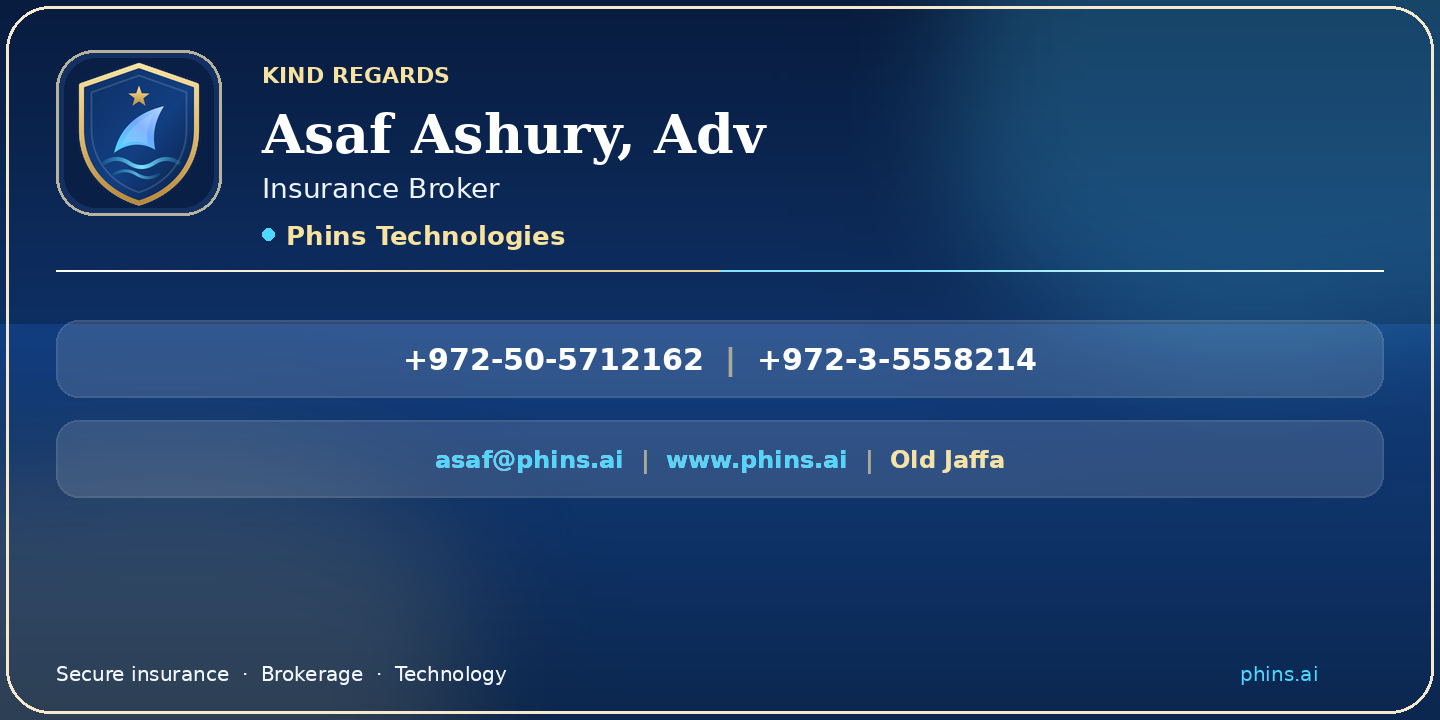
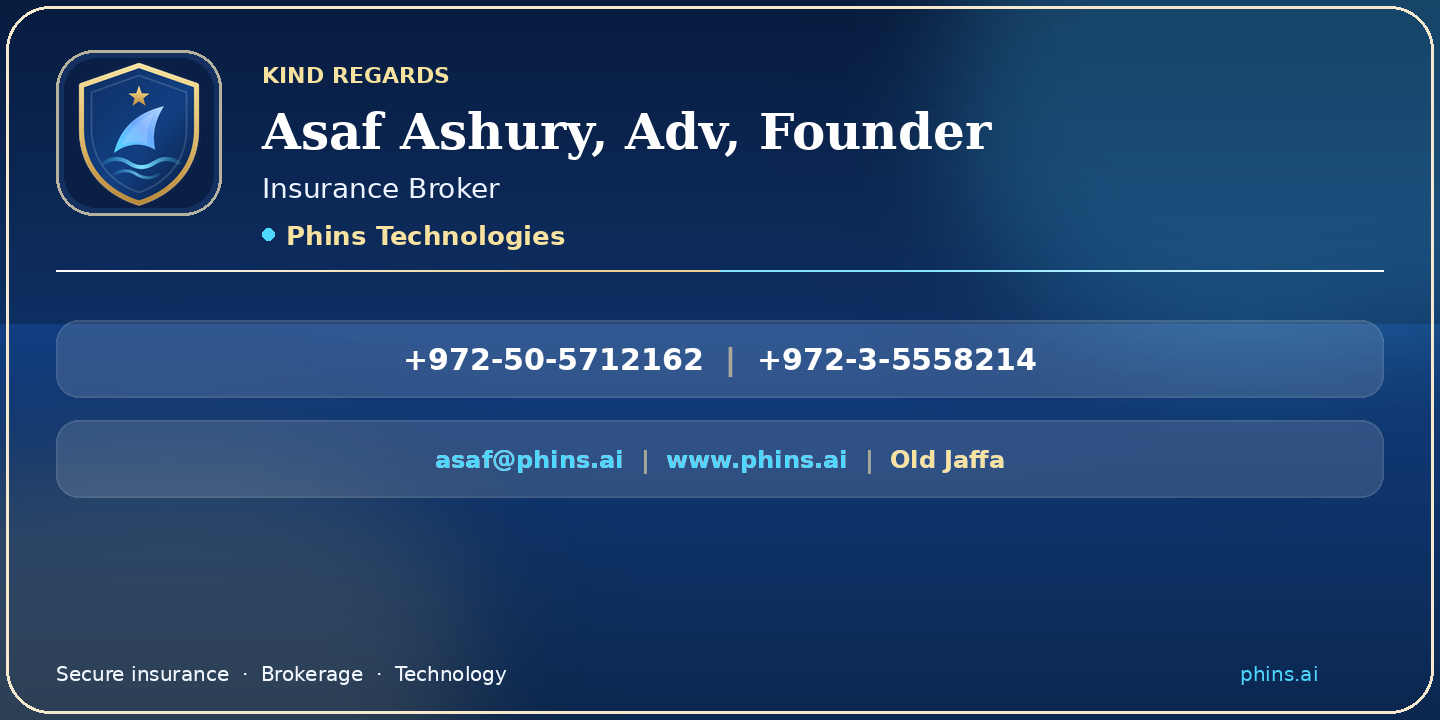
Add Founder title after Adv on email signature cover.
Name line now reads: Asaf Ashury, Adv, Founder.

Changed region(s): [[0.1875, 0.1528, 0.6875, 0.2444]]

diff --git a/artifacts/email-signature/Asaf-Ashury-PHINS-Email-Signature-Cover.html b/artifacts/email-signature/Asaf-Ashury-PHINS-Email-Signature-Cover.html
@@ -9,22 +9,13 @@
 <link href="https://fonts.googleapis.com/css2?family=Cormorant+Garamond:wght@600;700&family=Manrope:wght@500;600;700&display=swap" rel="stylesheet" />
 <style>
   :root {
-    --navy-deep: #081c3f;
-    --navy: #0e2f63;
-    --navy-mid: #123f82;
-    --gold: #e3bf6f;
-    --gold-light: #f7e2a0;
-    --cyan: #4fd8ff;
-    --ice: #eaf1ff;
-    --ink: #0a1628;
-    --muted: #5a6b85;
+    --navy-deep: #081c3f; --navy: #0e2f63; --navy-mid: #123f82;
+    --gold: #e3bf6f; --gold-light: #f7e2a0; --cyan: #4fd8ff; --ice: #eaf1ff;
+    --ink: #0a1628; --muted: #5a6b85;
   }
   * { box-sizing: border-box; }
   body {
-    margin: 0;
-    min-height: 100vh;
-    font-family: Manrope, system-ui, sans-serif;
-    color: var(--ink);
+    margin: 0; min-height: 100vh; font-family: Manrope, system-ui, sans-serif; color: var(--ink);
     background:
       radial-gradient(900px 420px at 10% -10%, rgba(79, 216, 255, 0.18), transparent 55%),
       radial-gradient(700px 380px at 95% 0%, rgba(227, 191, 111, 0.22), transparent 50%),
@@ -34,34 +25,18 @@
   .page { max-width: 920px; margin: 0 auto; }
   .intro { text-align: center; margin-bottom: 22px; }
   .intro h1 {
-    font-family: "Cormorant Garamond", Georgia, serif;
-    font-weight: 600;
-    font-size: clamp(1.8rem, 3vw, 2.4rem);
-    margin: 0 0 8px;
-    color: var(--navy-deep);
+    font-family: "Cormorant Garamond", Georgia, serif; font-weight: 600;
+    font-size: clamp(1.8rem, 3vw, 2.4rem); margin: 0 0 8px; color: var(--navy-deep);
   }
   .intro p { margin: 0; color: var(--muted); font-size: 0.95rem; }
-  .actions {
-    display: flex; flex-wrap: wrap; gap: 10px; justify-content: center; margin: 18px 0 28px;
-  }
+  .actions { display: flex; flex-wrap: wrap; gap: 10px; justify-content: center; margin: 18px 0 28px; }
   .btn {
     appearance: none; border: none; cursor: pointer; text-decoration: none;
-    font-family: inherit; font-weight: 600; font-size: 0.9rem;
-    padding: 11px 18px; border-radius: 10px;
+    font-family: inherit; font-weight: 600; font-size: 0.9rem; padding: 11px 18px; border-radius: 10px;
   }
-  .btn-primary {
-    color: #071022;
-    background: linear-gradient(135deg, var(--gold-light), var(--gold));
-  }
-  .btn-secondary {
-    color: var(--ice);
-    background: linear-gradient(135deg, var(--navy), var(--navy-mid));
-  }
-  .btn-ghost {
-    color: var(--navy);
-    background: rgba(255,255,255,0.7);
-    border: 1px solid rgba(14, 47, 99, 0.15);
-  }
+  .btn-primary { color: #071022; background: linear-gradient(135deg, var(--gold-light), var(--gold)); }
+  .btn-secondary { color: var(--ice); background: linear-gradient(135deg, var(--navy), var(--navy-mid)); }
+  .btn-ghost { color: var(--navy); background: rgba(255,255,255,0.7); border: 1px solid rgba(14, 47, 99, 0.15); }
   .sig-wrap { display: flex; justify-content: center; }
   .sig-card {
     width: 100%; max-width: 720px; border-radius: 22px; overflow: hidden; position: relative;
@@ -69,21 +44,15 @@
       radial-gradient(500px 220px at 90% 0%, rgba(79, 216, 255, 0.22), transparent 60%),
       radial-gradient(420px 240px at 0% 100%, rgba(227, 191, 111, 0.18), transparent 55%),
       linear-gradient(135deg, #081c3f 0%, #0e2f63 42%, #123f82 78%, #0b274f 100%);
-    box-shadow: 0 24px 60px rgba(8, 28, 63, 0.35);
-    color: #eaf1ff;
-    padding: 28px 30px 22px;
+    box-shadow: 0 24px 60px rgba(8, 28, 63, 0.35); color: #eaf1ff; padding: 28px 30px 22px;
   }
-  .sig-top {
-    display: grid; grid-template-columns: 92px 1fr; gap: 22px; align-items: center;
-  }
+  .sig-top { display: grid; grid-template-columns: 92px 1fr; gap: 22px; align-items: center; }
   .logo-ring {
     width: 92px; height: 92px; border-radius: 22px; display: grid; place-items: center;
-    background: linear-gradient(145deg, rgba(247,226,160,0.35), rgba(79,216,255,0.18));
-    padding: 2px;
+    background: linear-gradient(145deg, rgba(247,226,160,0.35), rgba(79,216,255,0.18)); padding: 2px;
   }
   .logo-inner {
-    width: 100%; height: 100%; border-radius: 20px;
-    background: linear-gradient(160deg, #0a1f45, #123f82);
+    width: 100%; height: 100%; border-radius: 20px; background: linear-gradient(160deg, #0a1f45, #123f82);
     display: grid; place-items: center;
   }
   .logo-inner img { width: 68px; height: 68px; display: block; }
@@ -93,8 +62,7 @@
   }
   .name {
     font-family: "Cormorant Garamond", Georgia, serif;
-    font-size: clamp(1.55rem, 2.6vw, 2rem);
-    font-weight: 700; margin: 0; line-height: 1.15; color: #fff;
+    font-size: clamp(1.4rem, 2.4vw, 1.85rem); font-weight: 700; margin: 0; line-height: 1.15; color: #fff;
   }
   .role { margin: 6px 0 0; font-size: 0.98rem; color: rgba(234, 241, 255, 0.82); }
   .company {
@@ -102,8 +70,7 @@
     font-weight: 700; letter-spacing: 0.04em; color: var(--gold-light); font-size: 0.95rem;
   }
   .company .dot {
-    width: 6px; height: 6px; border-radius: 50%;
-    background: var(--cyan); box-shadow: 0 0 10px rgba(79,216,255,0.8);
+    width: 6px; height: 6px; border-radius: 50%; background: var(--cyan); box-shadow: 0 0 10px rgba(79,216,255,0.8);
   }
   .divider {
     height: 1px; margin: 22px 0 16px;
@@ -111,19 +78,13 @@
   }
   .row {
     display: flex; flex-wrap: wrap; align-items: center; justify-content: center; gap: 8px 0;
-    padding: 12px 14px; border-radius: 14px;
-    background: rgba(255,255,255,0.06);
-    border: 1px solid rgba(255,255,255,0.08);
-    margin-bottom: 10px;
+    padding: 12px 14px; border-radius: 14px; background: rgba(255,255,255,0.06);
+    border: 1px solid rgba(255,255,255,0.08); margin-bottom: 10px;
   }
-  .row a {
-    color: #fff; text-decoration: none; font-weight: 700; font-size: 1.02rem;
-    padding: 2px 8px; border-radius: 6px;
-  }
+  .row a { color: #fff; text-decoration: none; font-weight: 700; font-size: 1.02rem; padding: 2px 8px; border-radius: 6px; }
   .row a:hover { background: rgba(255,255,255,0.08); }
   .row.secondary a { font-size: 0.95rem; }
-  .row.secondary a.mail,
-  .row.secondary a.web { color: var(--cyan); }
+  .row.secondary a.mail, .row.secondary a.web { color: var(--cyan); }
   .row.secondary a.loc { color: var(--gold-light); }
   .sep { color: rgba(227, 191, 111, 0.65); font-weight: 500; padding: 0 4px; user-select: none; }
   .footer-bar {
@@ -133,12 +94,10 @@
   .footer-bar a { color: var(--cyan); text-decoration: none; font-weight: 600; }
   .hint { margin-top: 24px; text-align: center; color: var(--muted); font-size: 0.88rem; }
   .email-safe {
-    margin-top: 32px; background: #fff; border-radius: 16px; padding: 22px;
-    border: 1px solid rgba(14,47,99,0.08);
+    margin-top: 32px; background: #fff; border-radius: 16px; padding: 22px; border: 1px solid rgba(14,47,99,0.08);
   }
   .email-safe h2 {
-    font-family: "Cormorant Garamond", Georgia, serif;
-    margin: 0 0 8px; font-size: 1.4rem; color: var(--navy-deep);
+    font-family: "Cormorant Garamond", Georgia, serif; margin: 0 0 8px; font-size: 1.4rem; color: var(--navy-deep);
   }
   .email-safe p { margin: 0 0 16px; color: var(--muted); font-size: 0.9rem; }
   @media (max-width: 640px) {
@@ -151,14 +110,13 @@
   <div class="page">
     <div class="intro">
       <h1>PHINS Email Signature Cover</h1>
-      <p>Asaf Ashury · Adv, Insurance Broker · Phins Technologies</p>
+      <p>Asaf Ashury · Adv, Founder · Insurance Broker · Phins Technologies</p>
     </div>
     <div class="actions">
       <button class="btn btn-primary" id="downloadPng" type="button">Download PNG Cover</button>
       <button class="btn btn-secondary" id="downloadHtml" type="button">Download HTML Signature</button>
       <button class="btn btn-ghost" id="copySignature" type="button">Copy Signature HTML</button>
     </div>
-
     <div class="sig-wrap">
       <div class="sig-card" id="signature-cover">
         <div class="sig-top">
@@ -169,13 +127,12 @@
           </div>
           <div>
             <p class="kind">Kind Regards</p>
-            <h2 class="name">Asaf Ashury, Adv</h2>
+            <h2 class="name">Asaf Ashury, Adv, Founder</h2>
             <p class="role">Insurance Broker</p>
             <p class="company"><span class="dot"></span> Phins Technologies</p>
           </div>
         </div>
         <div class="divider"></div>
-
         <div class="row phones">
           <a href="tel:+972505712162">+972-50-5712162</a>
           <span class="sep">|</span>
@@ -188,16 +145,13 @@
           <span class="sep">|</span>
           <a class="loc" href="https://www.google.com/maps/search/?api=1&amp;query=Old+Jaffa%2C+Tel+Aviv" target="_blank" rel="noopener noreferrer">Old Jaffa</a>
         </div>
-
         <div class="footer-bar">
           <span>Secure insurance · Brokerage · Technology</span>
           <a href="https://www.phins.ai" target="_blank" rel="noopener noreferrer">phins.ai</a>
         </div>
       </div>
     </div>
-
     <p class="hint">Phones on top · email / website / Old Jaffa below · all linked</p>
-
     <div class="email-safe">
       <h2>Email-client friendly signature</h2>
       <p>Table-based layout for Outlook / Gmail / Apple Mail.</p>
@@ -212,7 +166,7 @@
                   </td>
                   <td style="vertical-align:middle;">
                     <div style="font-size:11px;letter-spacing:2px;text-transform:uppercase;color:#f7e2a0;font-weight:700;">Kind Regards</div>
-                    <div style="font-size:22px;line-height:1.2;color:#ffffff;font-weight:700;margin-top:4px;">Asaf Ashury, Adv</div>
+                    <div style="font-size:21px;line-height:1.2;color:#ffffff;font-weight:700;margin-top:4px;">Asaf Ashury, Adv, Founder</div>
                     <div style="font-size:14px;color:#d7e4ff;margin-top:3px;">Insurance Broker</div>
                     <div style="font-size:13px;color:#e3bf6f;font-weight:700;margin-top:6px;">Phins Technologies</div>
                   </td>

diff --git a/artifacts/email-signature/Asaf-Ashury-PHINS-Email-Signature-PasteReady.html b/artifacts/email-signature/Asaf-Ashury-PHINS-Email-Signature-PasteReady.html
@@ -17,7 +17,7 @@
           </td>
           <td style="vertical-align:middle;">
             <div style="font-size:11px;letter-spacing:2px;text-transform:uppercase;color:#f7e2a0;font-weight:700;">Kind Regards</div>
-            <div style="font-size:22px;line-height:1.2;color:#ffffff;font-weight:700;margin-top:4px;">Asaf Ashury, Adv</div>
+            <div style="font-size:21px;line-height:1.2;color:#ffffff;font-weight:700;margin-top:4px;">Asaf Ashury, Adv, Founder</div>
             <div style="font-size:14px;color:#d7e4ff;margin-top:3px;">Insurance Broker</div>
             <div style="font-size:13px;color:#e3bf6f;font-weight:700;margin-top:6px;">Phins Technologies</div>
           </td>
